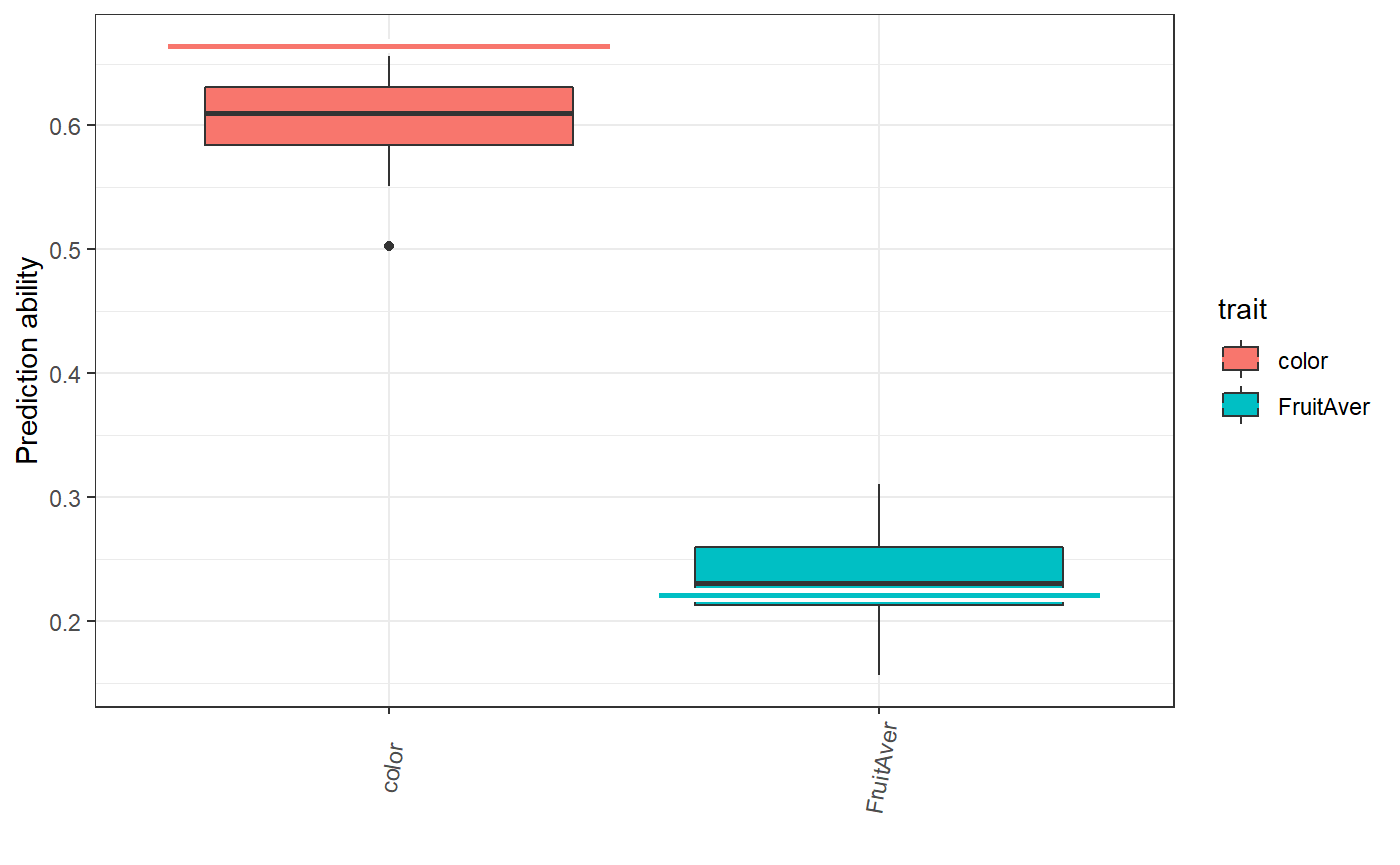
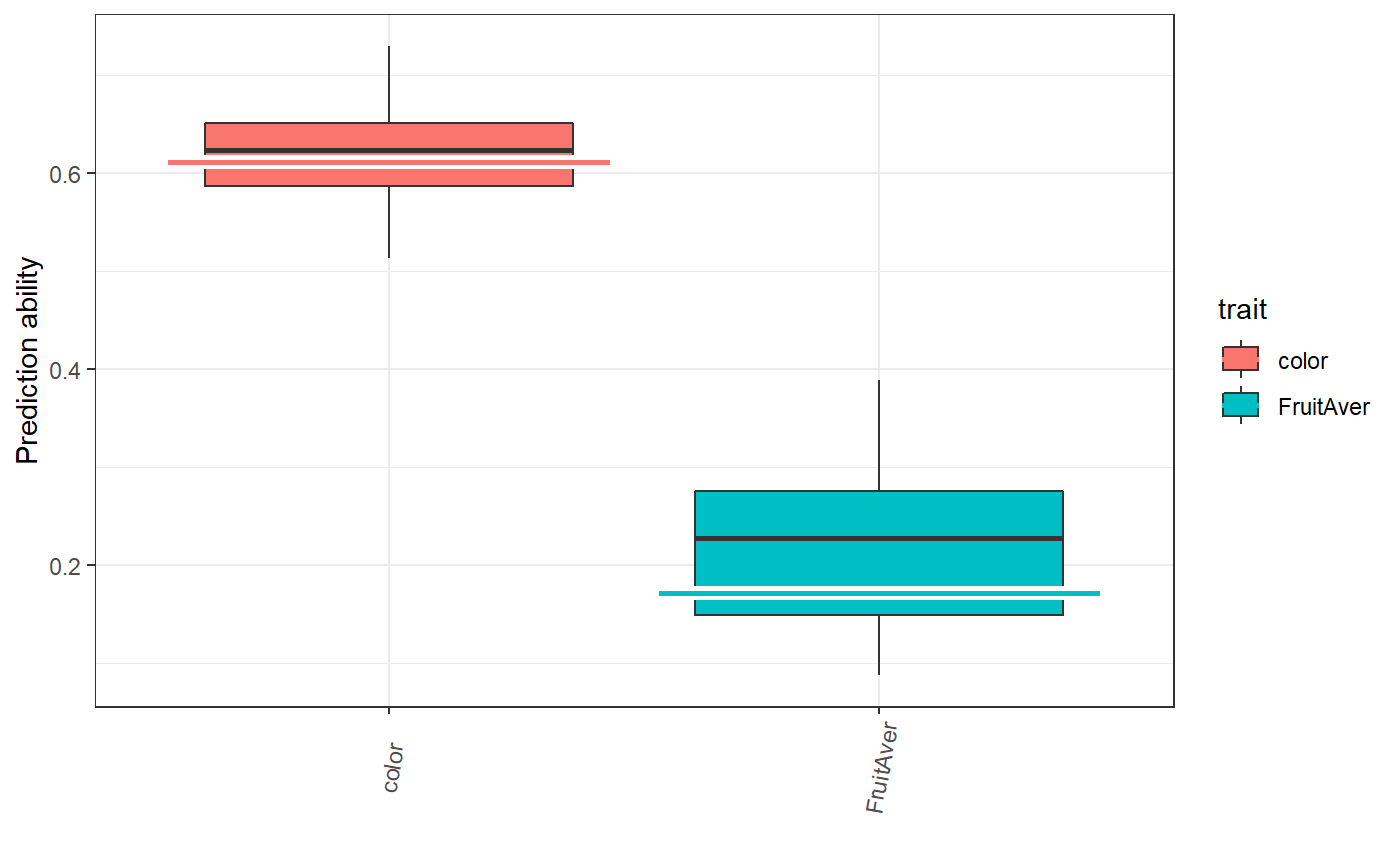
update

diff --git a/docs/articles/my-vignette.html b/docs/articles/my-vignette.html
@@ -141,38 +141,7 @@
 <div id="cross-validation" class="section level2">
 <h2 class="hasAnchor">
 <a href="#cross-validation" class="anchor"></a>Cross validation</h2>
-<div class="sourceCode" id="cb5"><pre class="sourceCode r"><code class="sourceCode r"><a class="sourceLine" id="cb5-1" title="1">tmp &lt;-<span class="st"> </span><span class="kw"><a href="../reference/crossGP.html">crossGP</a></span>(geno,samp,phen,<span class="dt">prior =</span> <span class="st">"sommer"</span>, <span class="dt">niter=</span><span class="dv">10</span>,<span class="dt">testporc =</span> <span class="fl">0.3</span>,<span class="dt">traits =</span> <span class="kw"><a href="https://rdrr.io/r/base/names.html">names</a></span>(phen)[<span class="kw"><a href="https://rdrr.io/r/base/c.html">c</a></span>(<span class="dv">5</span>,<span class="dv">7</span>)])</a>
-<a class="sourceLine" id="cb5-2" title="2"><span class="co"># []==============================================================[]</span></a>
-<a class="sourceLine" id="cb5-3" title="3"><span class="co"># []==================== Genomic Prediction  =====================[]</span></a>
-<a class="sourceLine" id="cb5-4" title="4"><span class="co"># []============= ASReml - BGLR - sommer package  ================[]</span></a>
-<a class="sourceLine" id="cb5-5" title="5"><span class="co"># []======= Last update: 2020-03-18  Johan Aparicio ==============[]</span></a>
-<a class="sourceLine" id="cb5-6" title="6"><span class="co"># []==============================================================[]</span></a>
-<a class="sourceLine" id="cb5-7" title="7"><span class="co"># color  == 362</span></a>
-<a class="sourceLine" id="cb5-8" title="8"><span class="co"># FruitAver  == 362</span></a>
-<a class="sourceLine" id="cb5-9" title="9"><span class="co"># </span></a>
-<a class="sourceLine" id="cb5-10" title="10"><span class="co"># prior trait   randomPop   hrk corr    finishedAt</span></a>
-<a class="sourceLine" id="cb5-11" title="11"><span class="co"># sommer    color   Pop_1   0.682913930068607   0.5029  2020-03-20 09:29:19</span></a>
-<a class="sourceLine" id="cb5-12" title="12"><span class="co"># sommer    color   Pop_2   0.601811333006949   0.6326  2020-03-20 09:29:20</span></a>
-<a class="sourceLine" id="cb5-13" title="13"><span class="co"># sommer    color   Pop_3   0.66127278324475    0.6341  2020-03-20 09:29:20</span></a>
-<a class="sourceLine" id="cb5-14" title="14"><span class="co"># sommer    color   Pop_4   0.600919371729605   0.5945  2020-03-20 09:29:20</span></a>
-<a class="sourceLine" id="cb5-15" title="15"><span class="co"># sommer    color   Pop_5   0.660597414124468   0.6261  2020-03-20 09:29:20</span></a>
-<a class="sourceLine" id="cb5-16" title="16"><span class="co"># sommer    color   Pop_6   0.655430289885332   0.5833  2020-03-20 09:29:21</span></a>
-<a class="sourceLine" id="cb5-17" title="17"><span class="co"># sommer    color   Pop_7   0.6852551792345 0.6266  2020-03-20 09:29:21</span></a>
-<a class="sourceLine" id="cb5-18" title="18"><span class="co"># sommer    color   Pop_8   0.705465622721708   0.588   2020-03-20 09:29:21</span></a>
-<a class="sourceLine" id="cb5-19" title="19"><span class="co"># sommer    color   Pop_9   0.618712213411784   0.656   2020-03-20 09:29:21</span></a>
-<a class="sourceLine" id="cb5-20" title="20"><span class="co"># sommer    color   Pop_10  0.708536476459072   0.5515  2020-03-20 09:29:22</span></a>
-<a class="sourceLine" id="cb5-21" title="21"><span class="co"># sommer    FruitAver   Pop_1   0.182852370764611   0.2182  2020-03-20 09:29:22</span></a>
-<a class="sourceLine" id="cb5-22" title="22"><span class="co"># sommer    FruitAver   Pop_2   0.258518554851436   0.2376  2020-03-20 09:29:22</span></a>
-<a class="sourceLine" id="cb5-23" title="23"><span class="co"># sommer    FruitAver   Pop_3   0.144749616326533   0.2665  2020-03-20 09:29:23</span></a>
-<a class="sourceLine" id="cb5-24" title="24"><span class="co"># sommer    FruitAver   Pop_4   0.172829436871098   0.2112  2020-03-20 09:29:23</span></a>
-<a class="sourceLine" id="cb5-25" title="25"><span class="co"># sommer    FruitAver   Pop_5   0.154838639312471   0.2017  2020-03-20 09:29:23</span></a>
-<a class="sourceLine" id="cb5-26" title="26"><span class="co"># sommer    FruitAver   Pop_6   0.189808211727759   0.2234  2020-03-20 09:29:23</span></a>
-<a class="sourceLine" id="cb5-27" title="27"><span class="co"># sommer    FruitAver   Pop_7   0.160530470090239   0.2405  2020-03-20 09:29:23</span></a>
-<a class="sourceLine" id="cb5-28" title="28"><span class="co"># sommer    FruitAver   Pop_8   0.0903402462054665  0.2948  2020-03-20 09:29:24</span></a>
-<a class="sourceLine" id="cb5-29" title="29"><span class="co"># sommer    FruitAver   Pop_9   0.150234901641691   0.3104  2020-03-20 09:29:24</span></a>
-<a class="sourceLine" id="cb5-30" title="30"><span class="co"># sommer    FruitAver   Pop_10  0.439709553567499   0.1561  2020-03-20 09:29:24</span></a>
-<a class="sourceLine" id="cb5-31" title="31"><span class="co"># </span></a>
-<a class="sourceLine" id="cb5-32" title="32"><span class="co"># []============================ End =============================[]</span></a></code></pre></div>
+<div class="sourceCode" id="cb5"><pre class="sourceCode r"><code class="sourceCode r"><a class="sourceLine" id="cb5-1" title="1">tmp &lt;-<span class="st"> </span><span class="kw"><a href="../reference/crossGP.html">crossGP</a></span>(geno,samp,phen,<span class="dt">prior =</span> <span class="st">"sommer"</span>, <span class="dt">niter=</span><span class="dv">20</span>,<span class="dt">testporc =</span> <span class="fl">0.3</span>,<span class="dt">traits =</span> <span class="kw"><a href="https://rdrr.io/r/base/names.html">names</a></span>(phen)[<span class="kw"><a href="https://rdrr.io/r/base/c.html">c</a></span>(<span class="dv">5</span>,<span class="dv">7</span>)])</a></code></pre></div>
 </div>
 <div id="plot" class="section level2">
 <h2 class="hasAnchor">
@@ -180,9 +149,9 @@
 <div class="sourceCode" id="cb6"><pre class="sourceCode r"><code class="sourceCode r"><a class="sourceLine" id="cb6-1" title="1"><span class="kw">ggplot</span>(tmp<span class="op">$</span>data, <span class="kw">aes</span>(<span class="dt">x=</span>trait,<span class="dt">y=</span>corr, <span class="dt">fill=</span>trait))<span class="op">+</span><span class="kw">geom_boxplot</span>()<span class="op">+</span><span class="kw">theme_bw</span>()</a></code></pre></div>
 <p><img src="my-vignette_files/figure-html/unnamed-chunk-6-1.png" width="700"></p>
 </div>
-<div id="genomic-heritability" class="section level1">
-<h1 class="hasAnchor">
-<a href="#genomic-heritability" class="anchor"></a>Genomic Heritability</h1>
+<div id="variance-explained" class="section level2">
+<h2 class="hasAnchor">
+<a href="#variance-explained" class="anchor"></a>Variance explained</h2>
 <div class="sourceCode" id="cb7"><pre class="sourceCode r"><code class="sourceCode r"><a class="sourceLine" id="cb7-1" title="1">tmp2 &lt;-<span class="st"> </span><span class="kw"><a href="../reference/crossGP.html">crossGP</a></span>(geno,samp,phen,<span class="dt">prior =</span> <span class="st">"sommer"</span>, <span class="dt">niter=</span><span class="dv">5</span>,<span class="dt">testporc =</span> <span class="dv">0</span>,<span class="dt">traits =</span> <span class="kw"><a href="https://rdrr.io/r/base/names.html">names</a></span>(phen)[<span class="kw"><a href="https://rdrr.io/r/base/c.html">c</a></span>(<span class="dv">5</span>,<span class="dv">7</span>)])</a>
 <a class="sourceLine" id="cb7-2" title="2"><span class="co"># []==============================================================[]</span></a>
 <a class="sourceLine" id="cb7-3" title="3"><span class="co"># []==================== Genomic Prediction  =====================[]</span></a>
@@ -193,10 +162,11 @@
 <a class="sourceLine" id="cb7-8" title="8"><span class="co"># FruitAver  == 362</span></a>
 <a class="sourceLine" id="cb7-9" title="9"><span class="co"># </span></a>
 <a class="sourceLine" id="cb7-10" title="10"><span class="co"># prior trait   randomPop   hrk corr    finishedAt</span></a>
-<a class="sourceLine" id="cb7-11" title="11"><span class="co"># sommer    color   Pop_1   0.664498908269351   0.8777  2020-03-20 09:29:26</span></a>
-<a class="sourceLine" id="cb7-12" title="12"><span class="co"># sommer    FruitAver   Pop_1   0.221160440357483   0.6235  2020-03-20 09:29:26</span></a>
+<a class="sourceLine" id="cb7-11" title="11"><span class="co"># sommer    color   Pop_1   0.611   0.8777  2020-03-20 15:43:05</span></a>
+<a class="sourceLine" id="cb7-12" title="12"><span class="co"># sommer    FruitAver   Pop_1   0.1719  0.6235  2020-03-20 15:43:06</span></a>
 <a class="sourceLine" id="cb7-13" title="13"><span class="co"># </span></a>
 <a class="sourceLine" id="cb7-14" title="14"><span class="co"># []============================ End =============================[]</span></a></code></pre></div>
+</div>
 <div id="final-plot" class="section level2">
 <h2 class="hasAnchor">
 <a href="#final-plot" class="anchor"></a>Final plot</h2>
@@ -218,7 +188,6 @@
 <a class="sourceLine" id="cb9-13" title="13">p</a></code></pre></div>
 <p><img src="my-vignette_files/figure-html/unnamed-chunk-9-1.png" width="700"></p>
 </div>
-</div>
   </div>
 
   <div class="col-md-3 hidden-xs hidden-sm" id="pkgdown-sidebar">
@@ -233,11 +202,8 @@
       <li><a href="#phenotypic-information">Phenotypic information</a></li>
       <li><a href="#cross-validation">Cross validation</a></li>
       <li><a href="#plot">plot</a></li>
-      <li>
-<a href="#genomic-heritability">Genomic Heritability</a><ul class="nav nav-pills nav-stacked">
-<li><a href="#final-plot">Final plot</a></li>
-      </ul>
-</li>
+      <li><a href="#variance-explained">Variance explained</a></li>
+      <li><a href="#final-plot">Final plot</a></li>
       </ul>
 </div>
       </div>
